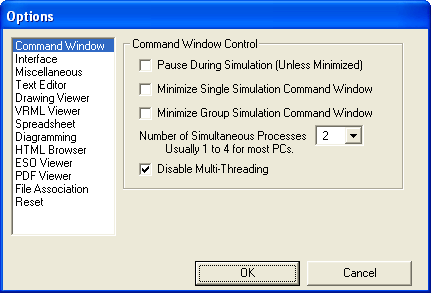
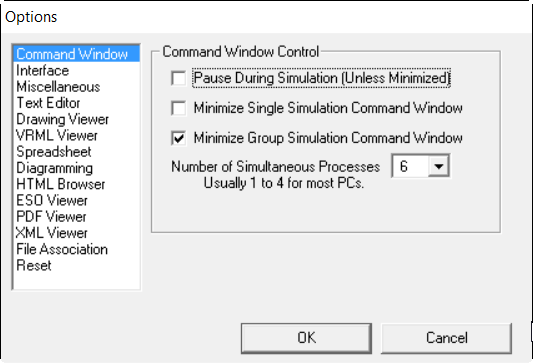
Docs EPLaunch update screenshot and fix typo

Changed region(s): [[0.0, 0.0, 1.0, 1.0]]

diff --git a/doc/getting-started/src/running-energyplus/ep-launch-program.tex b/doc/getting-started/src/running-energyplus/ep-launch-program.tex
@@ -168,7 +168,7 @@ The ``View'' menu also accesses the ``Options'' menu item shown in Figure~\ref{f
 
 \textbf{Minimize Single Simulation Command Window} -- For a single input file, minimizes the Command Window that EP-Launch uses to run EnergyPlus. The command window will appear only in the Windows taskbar and the command window will not be visible. You can restore the command window be clicking on the taskbar item labeled ``EnergyPlus Process''. This option should be used with caution since you will not see any indication of the simulation being complete other than the ``EnergyPlus Process'' taskbar item will disappear.
 
-\textbf{Minimum Group Simulation Command Window} -- For a group of input files, minimizes the Command Window that EP-Launch uses to run EnergyPlus. This is a good option when working on something else on your computer at the same time as the group of simulations is running since the command window normally becomes the front window each time a new simulation starts. This option prevents the command window coming to the front for each simulation. The command window will appear only in the Windows taskbar and the command window will not be visible. You can restore the command window be clicking on the taskbar item labeled ``EnergyPlus Process''. This option should be used with caution since you will not see any indication of the simulation being complete other than the ``EnergyPlus Process'' taskbar item will not be present.
+\textbf{Minimize Group Simulation Command Window} -- For a group of input files, minimizes the Command Window that EP-Launch uses to run EnergyPlus. This is a good option when working on something else on your computer at the same time as the group of simulations is running since the command window normally becomes the front window each time a new simulation starts. This option prevents the command window coming to the front for each simulation. The command window will appear only in the Windows taskbar and the command window will not be visible. You can restore the command window be clicking on the taskbar item labeled ``EnergyPlus Process''. This option should be used with caution since you will not see any indication of the simulation being complete other than the ``EnergyPlus Process'' taskbar item will not be present.
 
 \textbf{Number of Simultaneous Processes} -- Select the maximum number of simulations that should be able to be run at the same time. For a computer with multiple processors or multiple cores, this will allow better utilization of the computers power. The value selected should correspond to the number of processors/cores but higher or lower number can be used as well.
 

diff --git a/doc/auxiliary-programs/src/technical-details-of-running-energyplus/ep-launch-program.tex b/doc/auxiliary-programs/src/technical-details-of-running-energyplus/ep-launch-program.tex
@@ -182,7 +182,7 @@ The ``View'' menu also accesses the ``Options'' menu item shown in Figure~\ref{f
 
 \textbf{Minimize Single Simulation Command Window} - For a single input file, minimizes the Command Window that EP-Launch uses to run EnergyPlus. The command window will appear only in the Windows taskbar and the command window will not be visible. You can restore the command window be clicking on the taskbar item labeled ``EnergyPlus Process''. This option should be used with caution since you will not see any indication of the simulation being complete other than the ``EnergyPlus Process'' taskbar item will disappear.
 
-\textbf{Minimum Group Simulation Command Window} - For a group of input files, minimizes the Command Window that EP-Launch uses to run EnergyPlus. This is a good option when working on something else on your computer at the same time as the group of simulations is running since the command window normally becomes the front window each time a new simulation starts. This option prevents the command window coming to the front for each simulation. The command window will appear only in the Windows taskbar and the command window will not be visible. You can restore the command window be clicking on the taskbar item labeled ``EnergyPlus Process''. This option should be used with caution since you will not see any indication of the simulation being complete other than the ``EnergyPlus Process'' taskbar item will not be present.
+\textbf{Minimize Group Simulation Command Window} - For a group of input files, minimizes the Command Window that EP-Launch uses to run EnergyPlus. This is a good option when working on something else on your computer at the same time as the group of simulations is running since the command window normally becomes the front window each time a new simulation starts. This option prevents the command window coming to the front for each simulation. The command window will appear only in the Windows taskbar and the command window will not be visible. You can restore the command window be clicking on the taskbar item labeled ``EnergyPlus Process''. This option should be used with caution since you will not see any indication of the simulation being complete other than the ``EnergyPlus Process'' taskbar item will not be present.
 
 \textbf{Number of Simultaneous Processes} - Select the maximum number of simulations that should be able to be run at the same time. For a computer with multiple processors or multiple cores, this will allow better utilization of the computers power. The value selected should correspond to the number of processors/cores but higher or lower number can be used as well.
 
